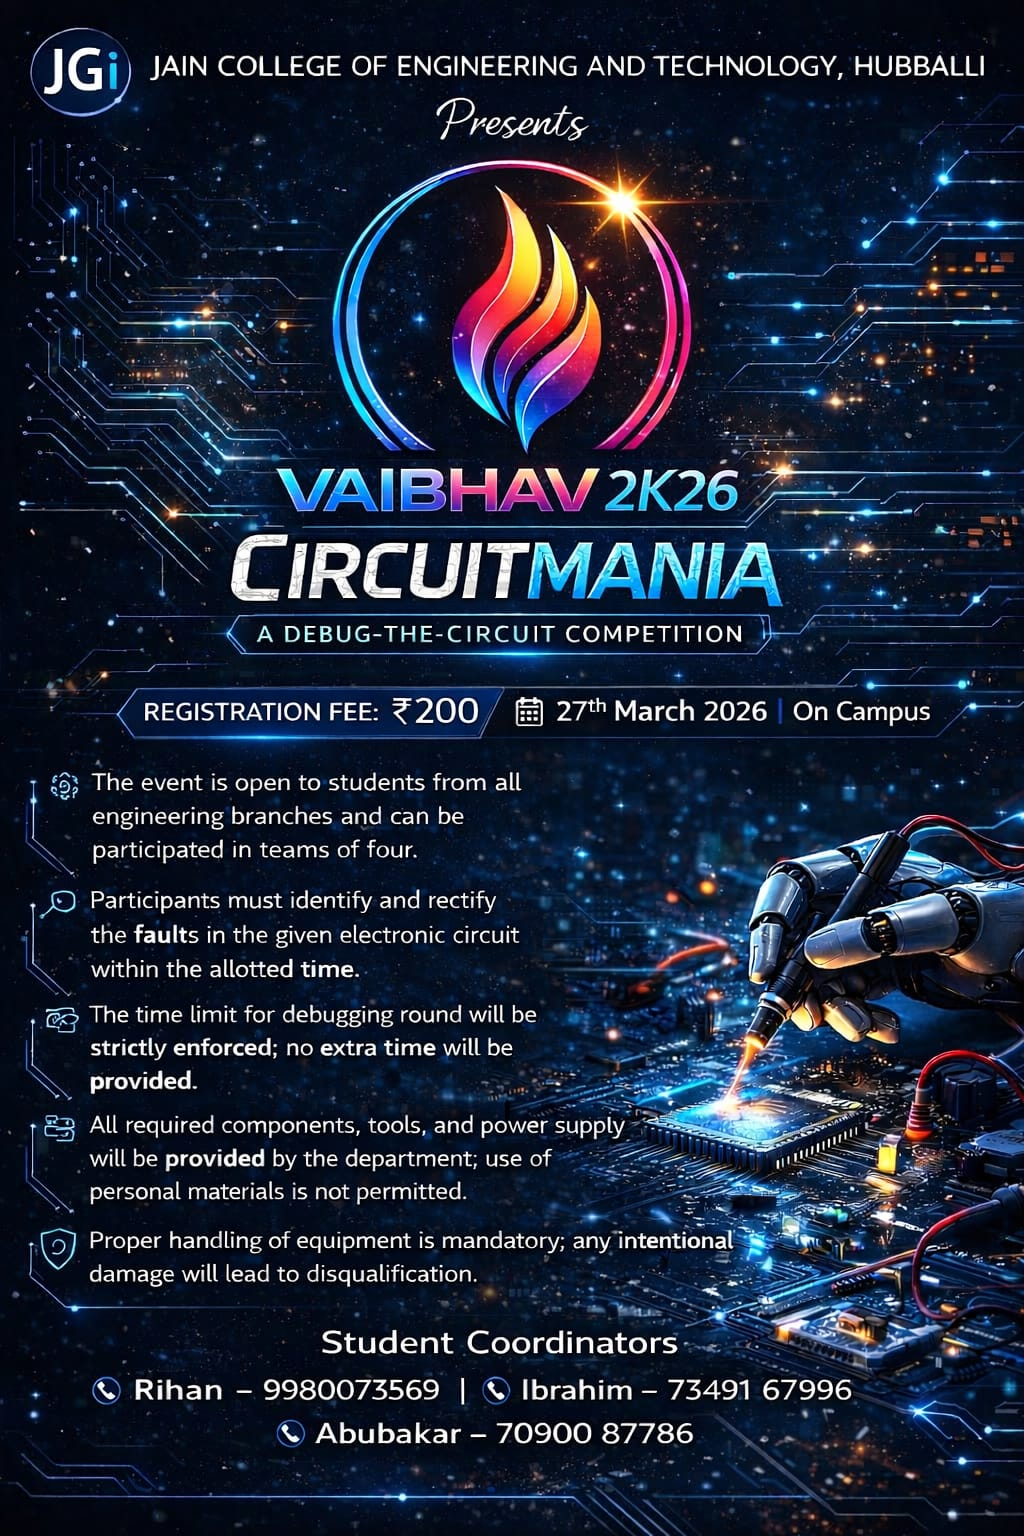
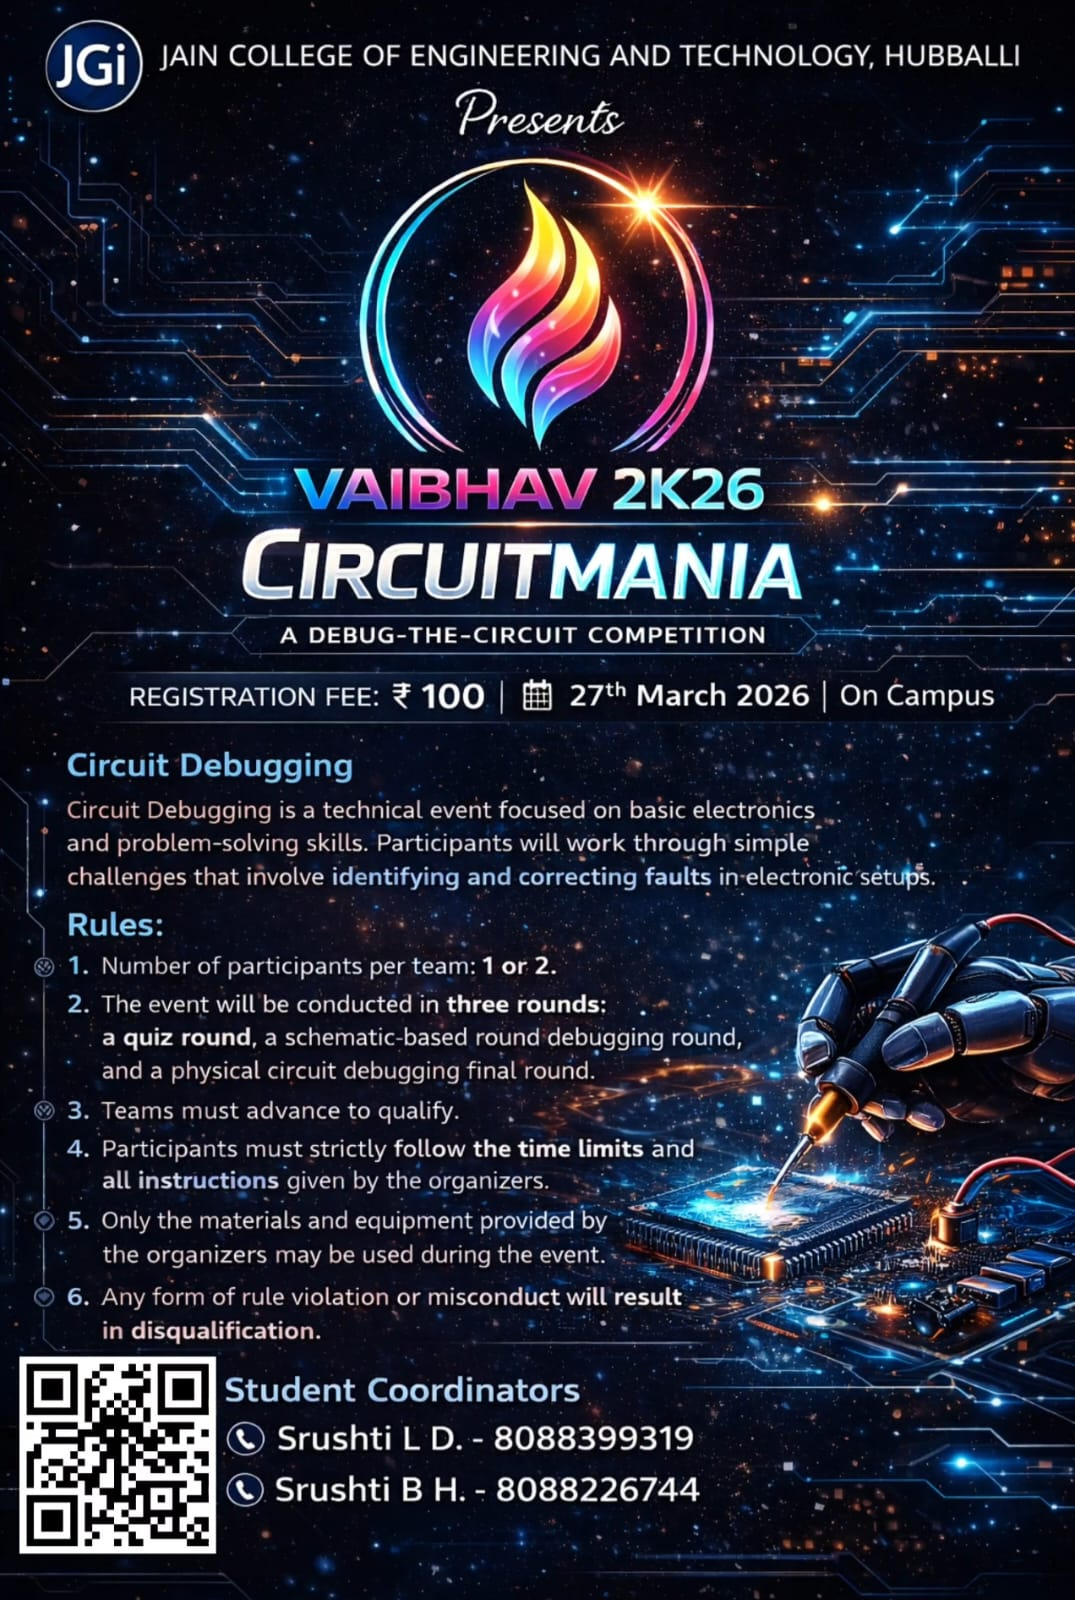
Update Circuit Mania event details and image

diff --git a/constants.ts b/constants.ts
@@ -321,13 +321,15 @@ export const EVENTS: EventDetails[] = [
     "id": "e19",
     "title": "Circuit Mania",
     "category": "Tech",
-    "description": "Test your skills in circuit design and debugging in this electrifying event.",
+    "description": "Circuit Mania is a technical event focusing on basic electronics and problem-solving skills. Participants will work through simple challenges that involve identifying and correcting faults in electronic setups. The event encourages logical thinking, attention to detail, and practical knowledge of electronic components. It’s a great opportunity to apply what you’ve learned and experience real-world troubleshooting.",
     "rules": [
-      "Individual participation.",
-      "Round 1: Theory-based MCQ screening.",
-      "Round 2: Identify & rectify faults in given circuit.",
-      "No mobile phones or personal materials allowed.",
-      "Decision of judges is final and binding."
+      "Number of participants per team: 1 or 2.",
+      "The event will be conducted in three rounds: a quiz round, a schematic-based debugging round and a physical circuit debugging final round.",
+      "Teams must advance to qualify.",
+      "Participants must strictly follow the time limits and follow all instructions given by the organizers.",
+      "Only the materials and equipment provided by the organizers may be used during the event.",
+      "Any form of rule violation or misconduct will result in disqualification.",
+      "Results will be announced on the same day, all participants will receive a participation certificate."
     ],
     "facultyCoordinators": [
       {
@@ -353,9 +355,9 @@ export const EVENTS: EventDetails[] = [
     "time": "02:00 PM",
     "venue": "Electrical Lab",
     "image": "/eventsposters/WhatsApp Image 2026-03-16 at 2.49.51 PM.jpeg",
-    "teamSize": "Team of 4",
+    "teamSize": "Solo or Team of 2",
     "department": "ECE",
-    "fee": 200,
+    "fee": 100,
     "rulesPdf": "/rules/Circuitmania.pdf"
   },
   {
